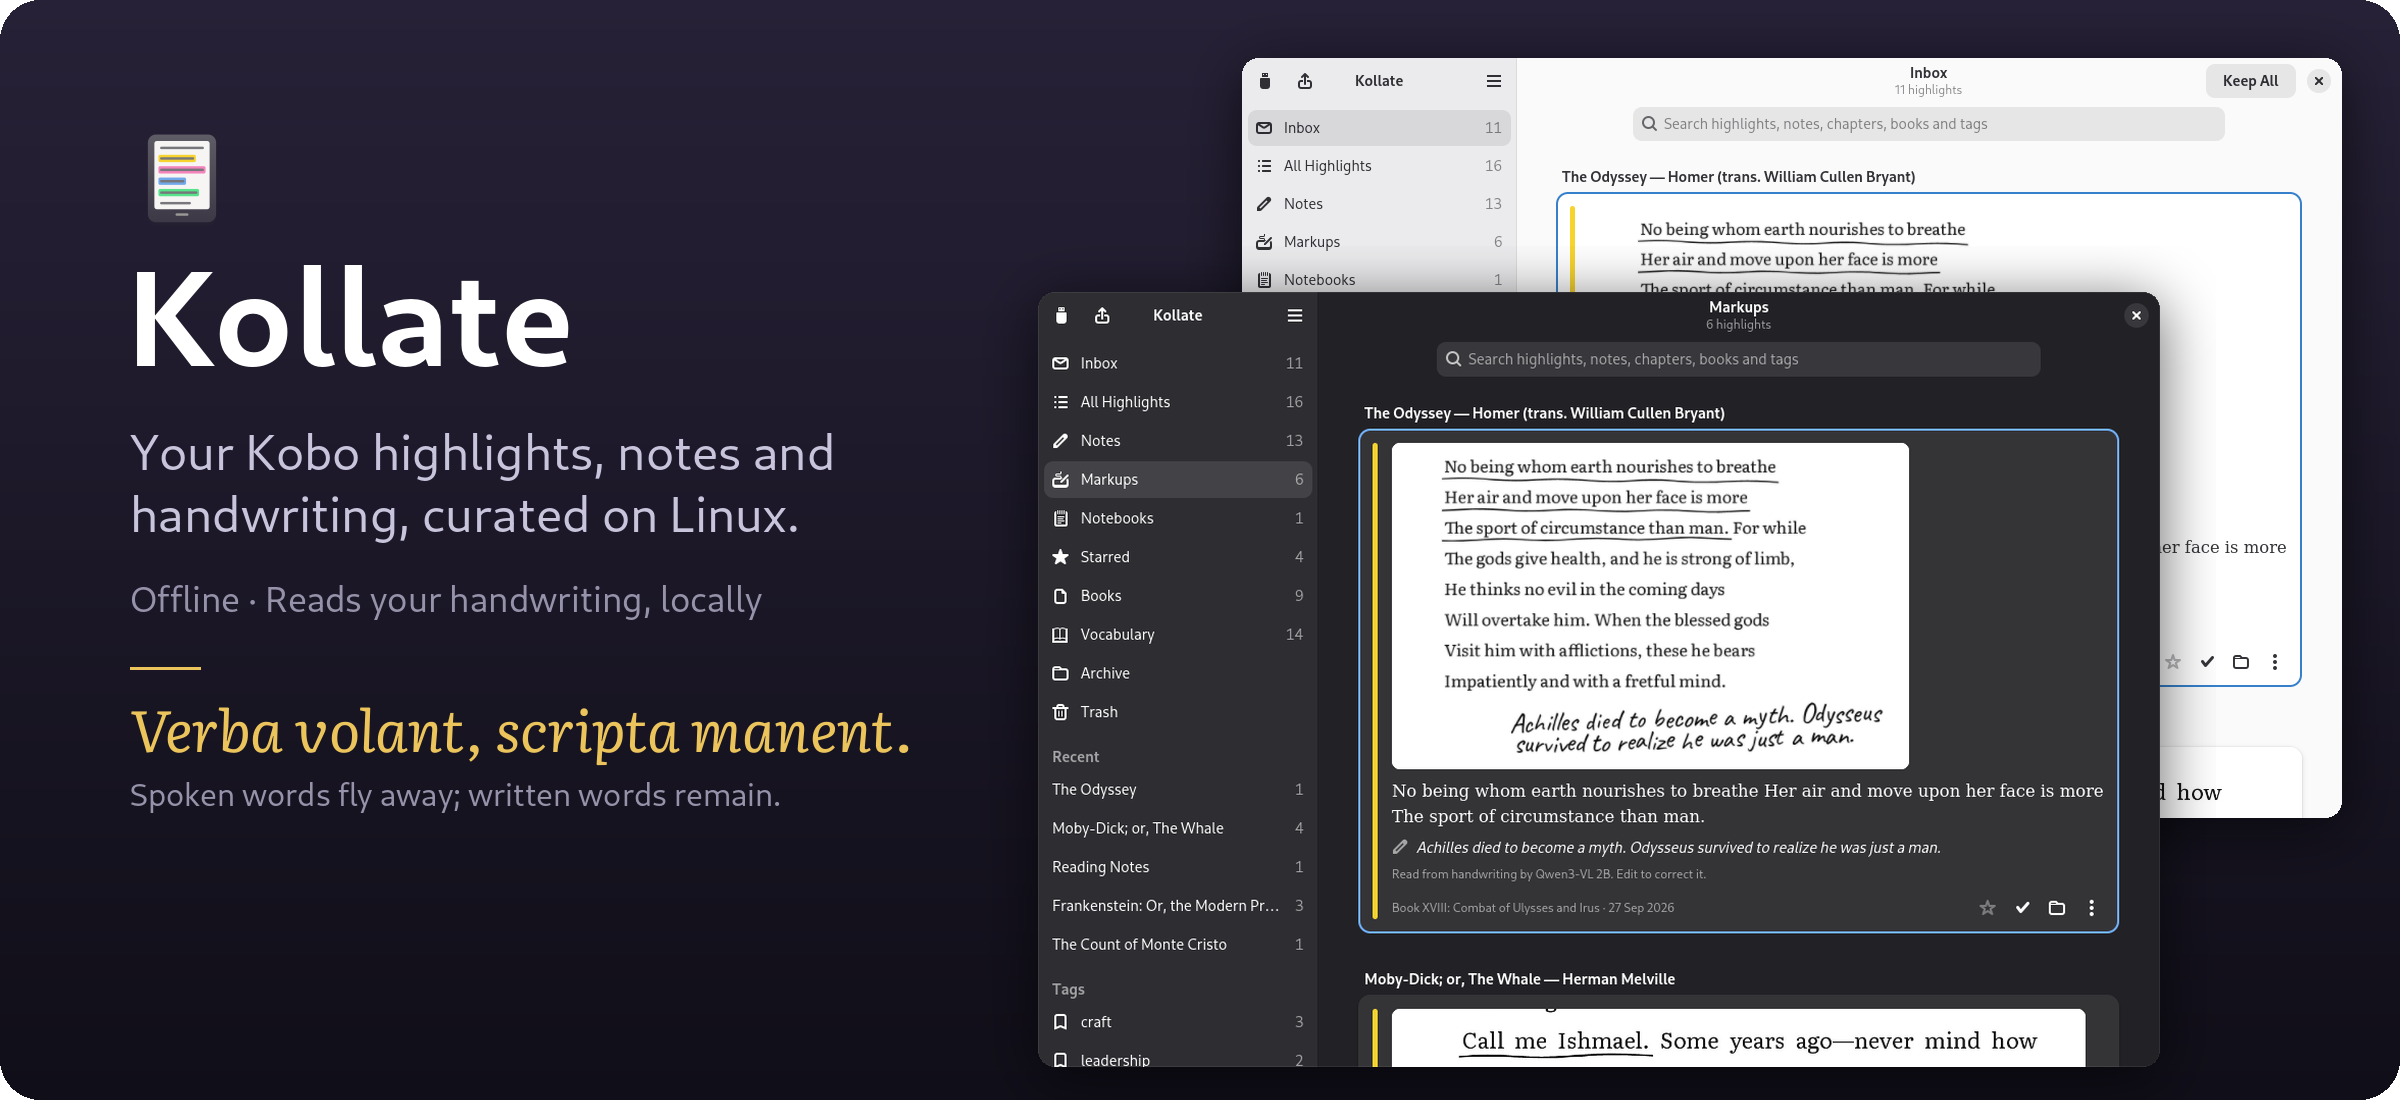
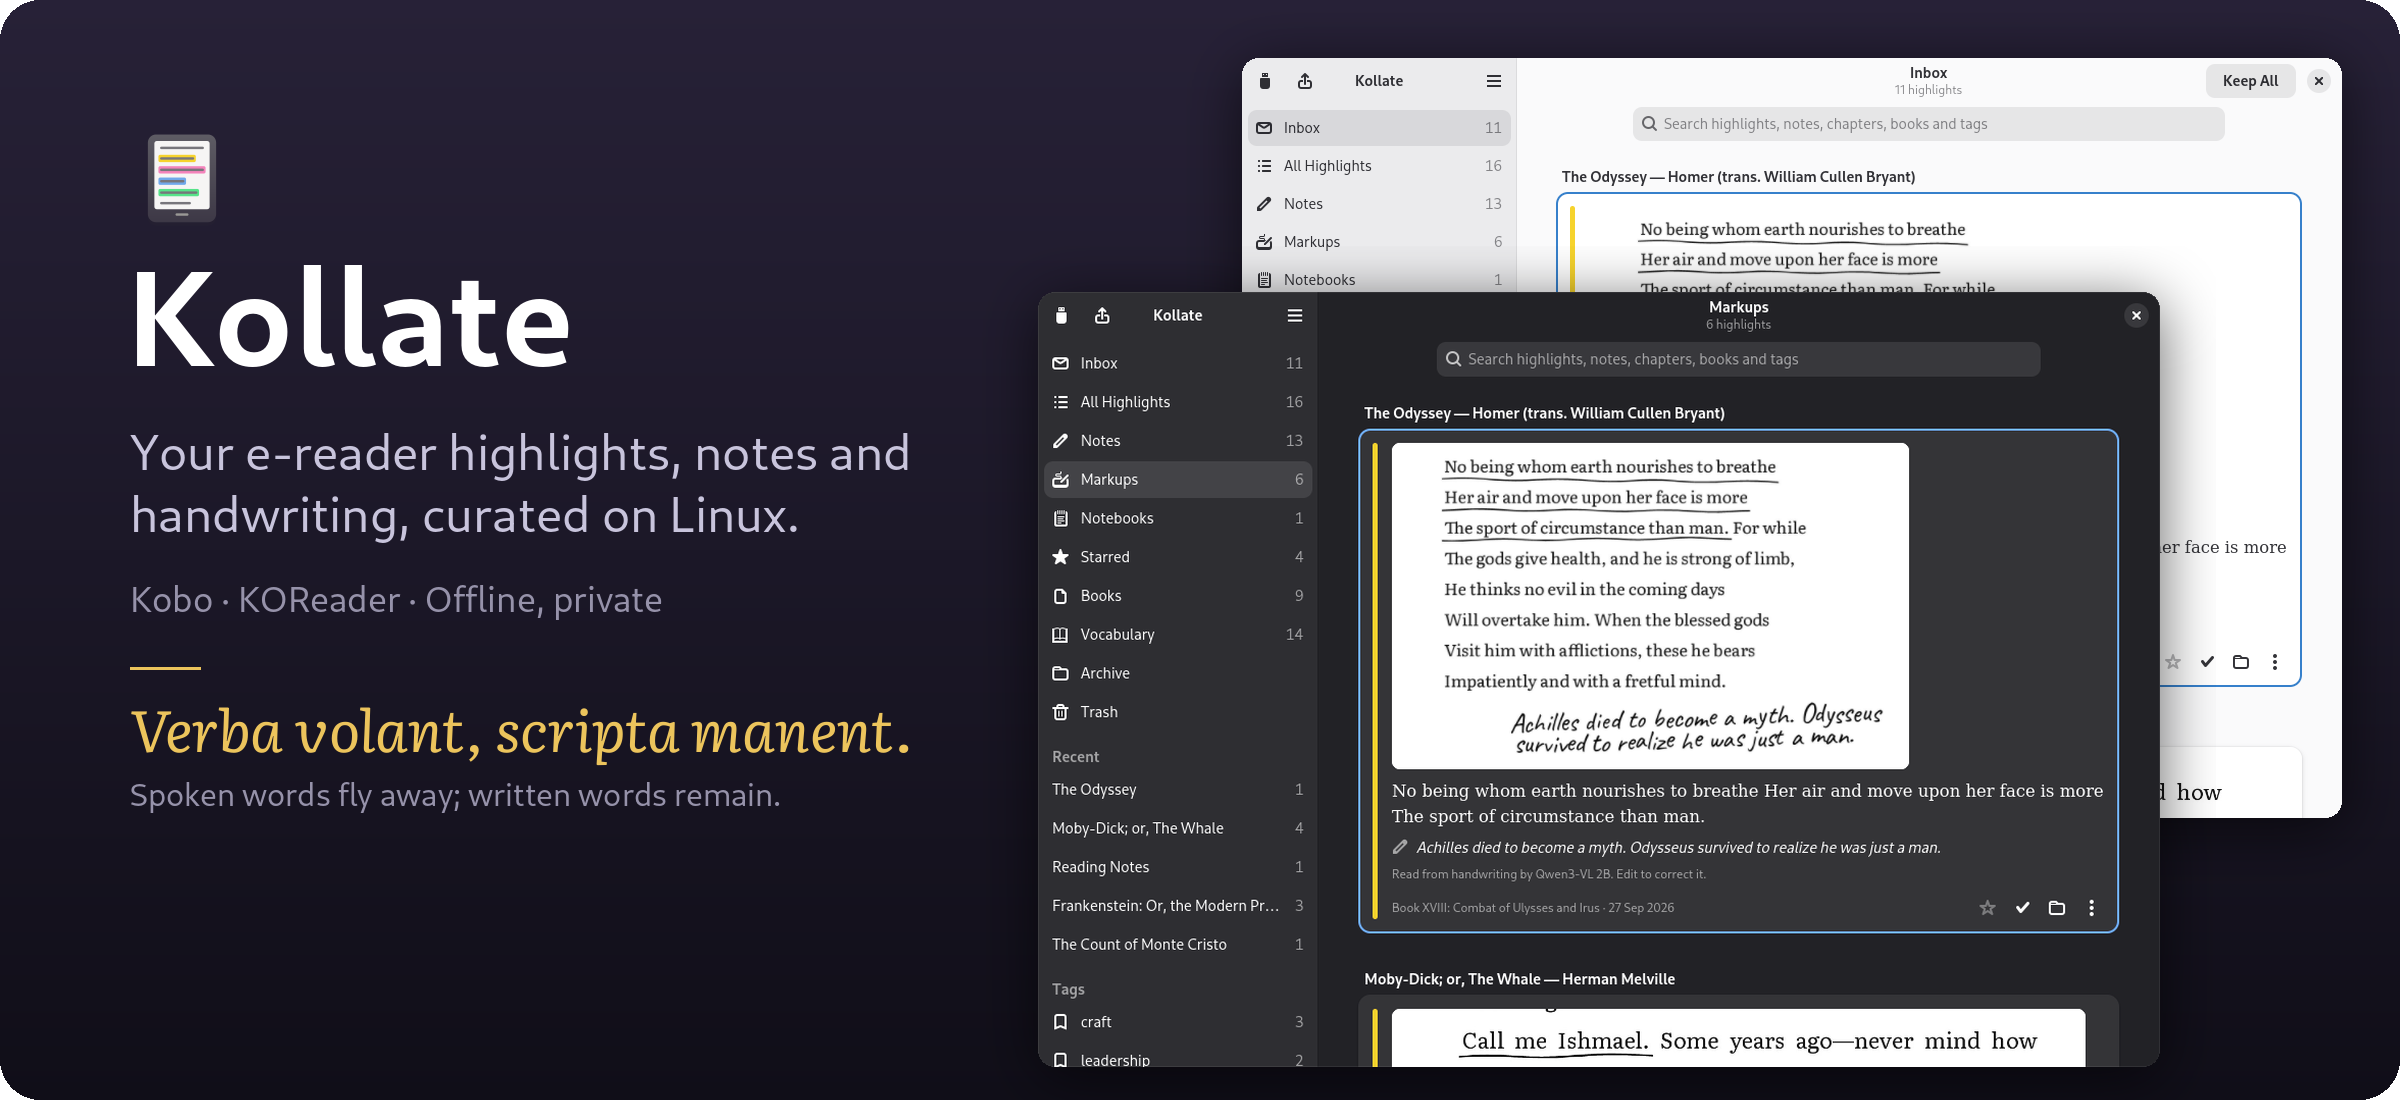
Say e-reader where it isn't about the Kobo
The README, guide, banner and package descriptions name KOReader alongside the Kobo's own reader, and the README opens with an epigraph and why Kollate exists.

Changed region(s): [[0.0938, 0.4018, 0.375, 0.4327], [0.0625, 0.5255, 0.3125, 0.5564]]

diff --git a/README.md b/README.md
@@ -1,12 +1,12 @@
 <p align="center">
-  <img src="docs/hero.png" alt="Kollate: your Kobo highlights, notes and handwriting, curated on Linux. Verba volant, scripta manent: spoken words fly away, written words remain. A handwritten note on a page of the Odyssey, read as text, in front of the Inbox.">
+  <img src="docs/hero.png" alt="Kollate: your e-reader highlights, notes and handwriting, curated on Linux. Kobo, KOReader; offline and private. Verba volant, scripta manent: spoken words fly away, written words remain. A handwritten note on a page of the Odyssey, read as text, in front of the Inbox.">
 </p>
 
 <p align="center">
-  <b>Everything you mark on your Kobo, read, sorted and put to work.</b><br>
-  Kollate turns your margin notes and notebooks into text, files what you star and tag with the pen,<br>
-  and makes flashcards from the words you look up.<br>
-  <sub>A native Linux app for GNOME and any desktop. Offline, private, and it never writes to your Kobo.</sub>
+  <b>Everything you mark on your e-reader, read, sorted and put to work.</b><br>
+  Highlights and notes from your Kobo, in its own reader or in KOReader. Kollate turns your margin notes<br>
+  and notebooks into text, files what you star and tag with the pen, and makes flashcards from the words you look up.<br>
+  <sub>A native Linux app for GNOME and any desktop. Offline, private, and it never writes to your e-reader.</sub>
 </p>
 
 <p align="center">
@@ -14,6 +14,10 @@
   <a href="docs/guide.md"><b>User guide</b></a> ·
   <a href="SPEC.md">Design notes</a>
 </p>
+
+<p align="center"><i>"It is a comforting thing to have an archive: a place where the scattered leaves of memory are bound together."</i></p>
+
+E-readers are wonderful to read on, and stingy with what you write in them: highlights locked in a database, handwriting kept only as ink, notes split between readers. Kollate gathers all of it into one searchable library on your own computer, with no account and no cloud, and without sending a word of your notes anywhere.
 
 Here's what it does, over a week of reading, starting with what nothing else does.
 
@@ -67,6 +71,10 @@ The Kobo's Vocabulary Builder keeps the words you look up, but not where you met
 | ![Vocabulary words, each with its definition and the sentence from the book it was met in](docs/screenshots/vocabulary.png) | ![An Anki card from Kollate: "daemon" with its sentence on the front; the definition, the reader's gloss and the book on the back](docs/screenshots/anki-card.png) |
 | *Thursday: leviathan, ambergris and cetology, each in Melville's own sentence…* | *…and "daemon" as an Anki card, gloss and all.* |
 
+## Kobo's reader, KOReader, or both
+
+Read in [KOReader](https://koreader.rocks/)? Kollate brings in its highlights, notes and vocabulary too, over the same USB cable, alongside the Kobo's own. Every one of KOReader's highlight colours comes through, the marks you type in a note (`*`, `?`, `#tag`) file it just the same, words keep the sentence you looked them up in, and a book you read in both is one book in your library. If you only ever use KOReader, that's fine: books get their covers from the books themselves.
+
 ## Triage like an inbox
 
 New highlights land in an **Inbox**. Keep, archive, star or edit each with a key (`K`, `A`, `S`, `E`), trash it with `Delete`, or select several and act on them all. Every action can be undone, and your edits survive every re-import.
@@ -99,12 +107,12 @@ New highlights land in an **Inbox**. Keep, archive, star or edit each with a key
 </p>
 <p align="center"><i>Sunday: the week's best lines, ready to share.</i></p>
 
-## Private, and read-only on your Kobo
+## Private, and read-only on your e-reader
 
-- Kollate **never writes to your Kobo.** It reads a copy of the Kobo's database, so you can eject at any time. The Flatpak enforces this: its sandbox can only read the Kobo.
+- Kollate **never writes to your e-reader.** It reads a copy of the Kobo's database and KOReader's files, so you can eject at any time. The Flatpak enforces this: its sandbox can only read the device.
 - **Fully offline.** The app has no network access, yet setting up handwriting takes a minute: Preferences lists the models with their download links, you click to download in your browser, then add the files with **+**. Kollate checks them and takes it from there. Definitions come from a bundled copy of the English [Wiktionary](https://www.wiktionary.org/) (over 800,000 words, compiled by [reader.dict](https://www.reader-dict.com/)); for 16 more languages, Preferences suggests the ones your books are in, with download links, just like the handwriting models.
-- **No duplicates, ever.** Highlights are matched by the Kobo's own IDs, and by their content if those change (a factory reset, a second Kobo, calibre re-sending a book). Importing again changes nothing.
-- **Your library is the source of truth.** A highlight deleted on the Kobo stays in Kollate, flagged; your edits, stars and tags survive every import, and if the Kobo later changes something you edited, your version stays and the Kobo's is kept for review.
+- **No duplicates, ever.** Highlights are matched by the reader's own IDs, and by their content if those change (a factory reset, a second Kobo, calibre re-sending a book). Importing again changes nothing.
+- **Your library is the source of truth.** A highlight deleted on the device stays in Kollate, flagged; your edits, stars and tags survive every import, and if the Kobo later changes something you edited, your version stays and the Kobo's is kept for review.
 - **Verifiable builds.** Every release is built by GitHub Actions from its tagged source, with signed build provenance (see below).
 
 ## Install
@@ -123,7 +131,7 @@ The bundle uses the GNOME 51 runtime from Flathub, and Flatpak installs it autom
 ### Debian / Ubuntu (.deb)
 
 ```sh
-sudo apt install ./kollate_0.5.2-1_amd64.deb
+sudo apt install ./kollate_0.6.0-1_amd64.deb
 ```
 
 The package includes the app, the `kollate-cli` tool and the English Wiktionary dictionary. It needs GTK ≥ 4.12 and libadwaita ≥ 1.5, which Debian 13 and Ubuntu 24.04 or newer provide.
@@ -193,11 +201,13 @@ kollate-cli dict build-stardict ~/dicts/foo.ifo foo.db # convert a dictionary
 
 Tested on a **Kobo Libra Colour** (firmware 4.45, database version 176), a **Kobo Clara Colour** (firmware 4.42, database version 176) and a **Kobo Clara 2E** (firmware 4.38, database version 174), so on colour and black-and-white Kobos alike, with sideloaded and Kobo Store books. Other models use the same database layout and should work. If your Kobo's database version is new to Kollate, it still imports and shows a one-time notice with a **Report** button. Please [send a compatibility report](https://github.com/andrew-lawlor/kollate/issues/new?template=compatibility.yml), even if everything works. Context sentences need sideloaded, DRM-free books. Kobo Store books with DRM still import, just without context sentences.
 
+**KOReader** is read from its folder on the Kobo (`.adds/koreader`), tested with KOReader 2026.07 on the Libra Colour. Book settings are found wherever KOReader keeps them: next to the books (in any folder), in `docsettings` or in `hashdocsettings`. Handwriting from KOReader's third-party Pencil plugin isn't read yet. KOReader on other devices (Kindle, PocketBook) isn't detected yet.
+
 ## Development
 
 ```
 crates/
-  kollate-core/   Kobo reader, library (SQLite), import/dedup, dictionaries, EPUB context, exports
+  kollate-core/   Kobo and KOReader readers, library (SQLite), import/dedup, dictionaries, EPUB context, exports
   kollate-cli/    command-line tool
   kollate/        GTK 4 / libadwaita app
 tests/fixtures/   a trimmed Kobo database used by the tests
@@ -217,4 +227,4 @@ Definitions come from **[Wiktionary](https://www.wiktionary.org/)** © Wiktionar
 
 The books in the screenshots are **[Standard Ebooks](https://standardebooks.org)** editions, dedicated to the public domain ([CC0](https://creativecommons.org/publicdomain/zero/1.0/)). Thanks to its volunteers for their work.
 
-Kollate isn't affiliated with or endorsed by Rakuten Kobo. "Kobo" is a trademark of Rakuten Kobo Inc.
+Kollate isn't affiliated with or endorsed by Rakuten Kobo or the KOReader project. "Kobo" is a trademark of Rakuten Kobo Inc.

diff --git a/docs/guide.md b/docs/guide.md
@@ -1,6 +1,6 @@
 # Kollate user guide
 
-For Kollate 0.5.2. Kollate brings everything you mark on a Kobo e-reader — highlights, notes, stylus markups, notebooks and Vocabulary Builder words — into a library on your computer, where you can triage it, correct it, read your handwriting as text, and export it to Obsidian, Anki and more. It never writes to your Kobo and never goes online.
+For Kollate 0.6.0. Kollate brings everything you mark on a Kobo e-reader, in its own reader or in KOReader — highlights, notes, stylus markups, notebooks and Vocabulary Builder words — into a library on your computer, where you can triage it, correct it, read your handwriting as text, and export it to Obsidian, Anki and more. It never writes to your Kobo and never goes online.
 
 **Contents**
 
@@ -35,7 +35,7 @@ Flatpak installs the GNOME runtime from Flathub if you don't have it. The Flatpa
 **Debian 13 or Ubuntu 24.04 and newer** (`.deb`):
 
 ```sh
-sudo apt install ./kollate_0.5.2-1_amd64.deb
+sudo apt install ./kollate_0.6.0-1_amd64.deb
 ```
 
 This also installs `kollate-cli`, the [command-line tool](#11-the-command-line).
@@ -72,6 +72,19 @@ When you're done, press **Eject** in the banner, then unplug. You can also eject
 Page bookmarks (dog-ears) aren't imported. For books bought from the Kobo Store, which are locked with DRM, Kollate can't read the book text: their highlights import normally, but vocabulary words get no context sentence and markups get no exact marked text.
 
 To import from a backup of a Kobo rather than the device, use **Main Menu → Import from Folder…** and choose the folder that contains `.kobo`.
+
+### KOReader
+
+If KOReader is installed on your Kobo, Kollate imports from it in the same go, with nothing to set up:
+
+| From KOReader | In Kollate |
+|---|---|
+| Highlights, in all nine colours | Highlights, in their colours, by chapter |
+| Notes on a highlight | The highlight's note, with a `*`, `NB` or `?` on a line of its own, or a `#tag` anywhere, [filed as a mark](#mark-it-in-the-margin) |
+| Vocabulary builder words | [Vocabulary](#7-vocabulary), with the sentence KOReader kept |
+| Books | The same book as in the Kobo's reader, if you read it in both; a book only KOReader has seen gets its cover from the book file |
+
+Once your library has anything from KOReader, every card says which reader it came from, **Kobo** or **KOReader**. Bookmarks aren't imported, and neither is handwriting from KOReader's third-party Pencil plugin, yet. A highlight deleted in KOReader is treated like one deleted on the Kobo (below).
 
 ### Importing again
 
